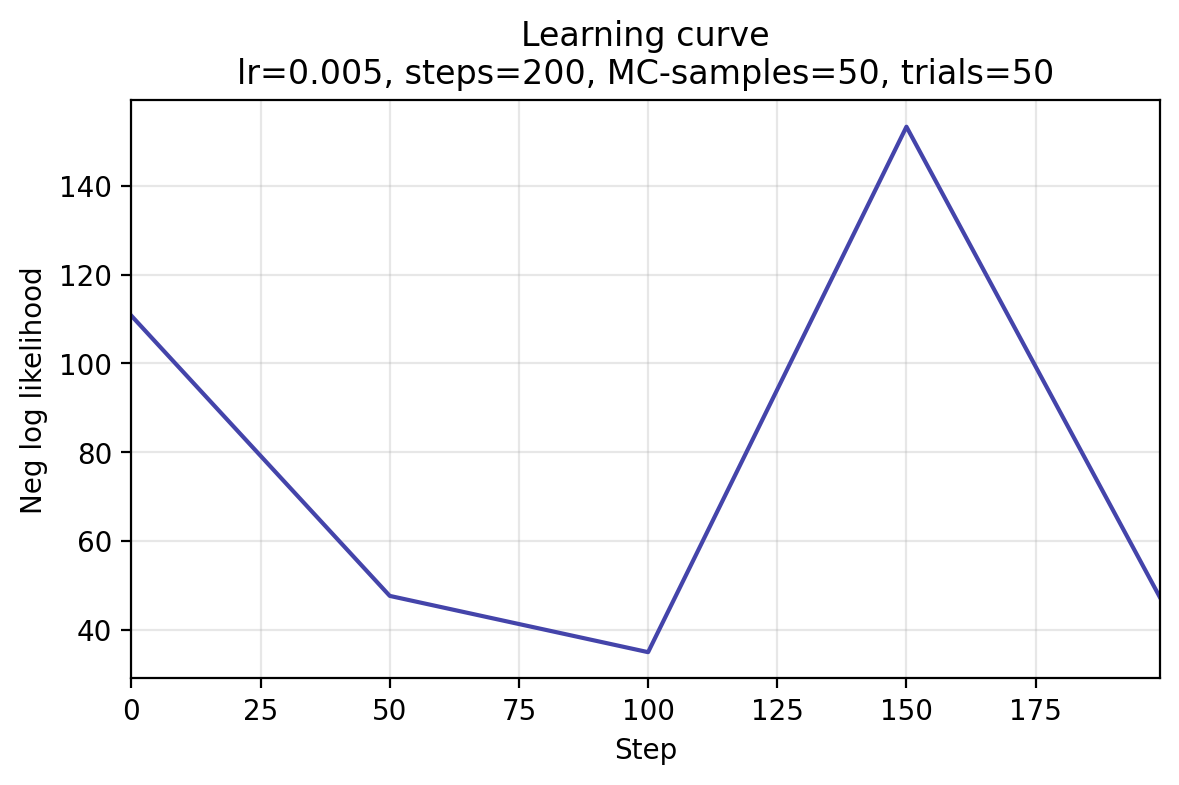
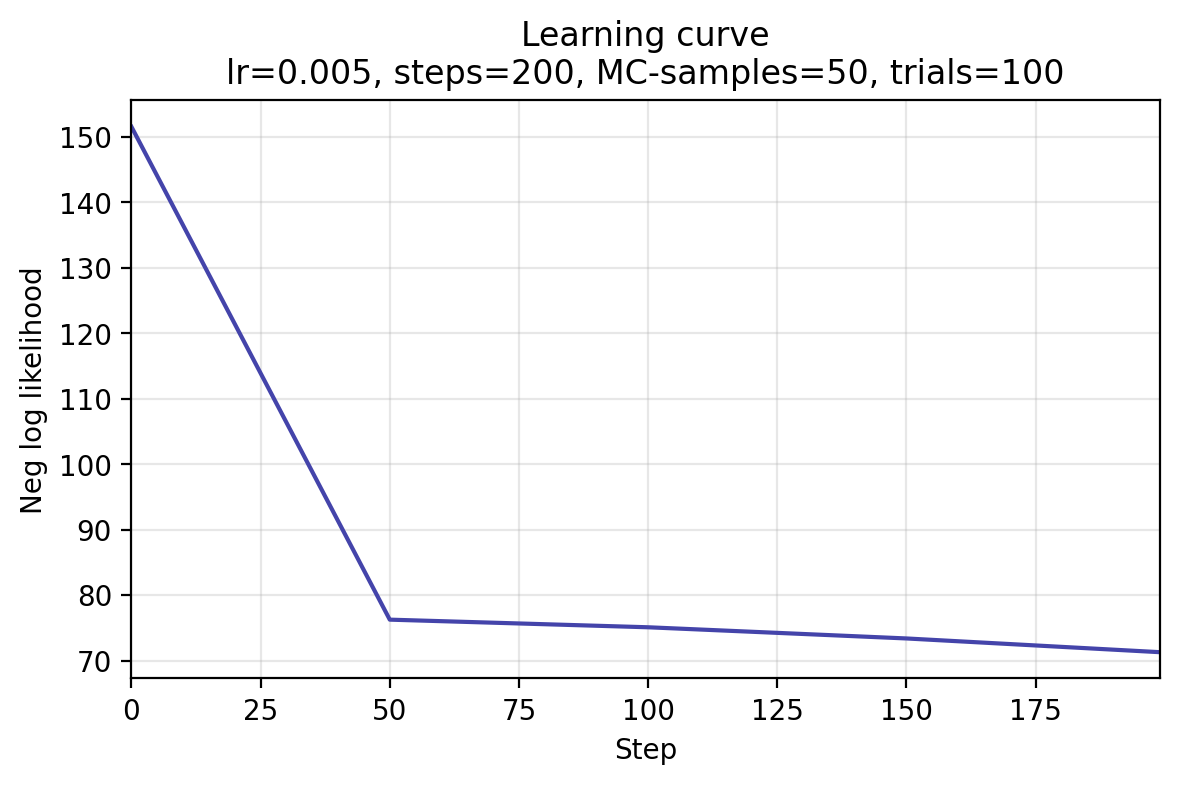
better quickstart plot

diff --git a/docs/examples/wppm/quick_start.py b/docs/examples/wppm/quick_start.py
@@ -88,7 +88,7 @@ def _ellipse_segments_from_covs(
 
 # --8<-- [start:compute_settings]
 MC_SAMPLES = 50  # MC samples per trial in the likelihood (full example: 500)
-NUM_TRIALS = 50  # total simulated trials (full example: 4000 × 25)
+NUM_TRIALS = 100  # total simulated trials (full example: 4000 × 25)
 NUM_STEPS = 200  # optimizer steps (full example: 2000)
 # --8<-- [end:compute_settings]
 
@@ -191,7 +191,9 @@ p_correct = jax.vmap(_p_correct_one)(refs, comparisons, trial_pred_keys)
 ys = jr.bernoulli(k_y, p_correct, shape=(NUM_TRIALS,)).astype(jnp.int32)
 
 # --8<-- [start:data]
-data = TrialData(refs=refs, comparisons=comparisons, responses=ys)
+data = TrialData(
+    refs=refs, comparisons=comparisons, responses=ys
+)  # contains 3 JAX arrays
 # --8<-- [end:data]
 # --8<-- [end:simulate_data]
 
